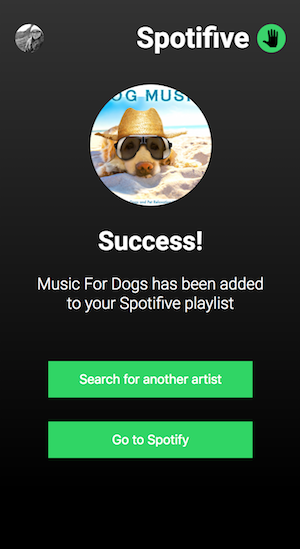
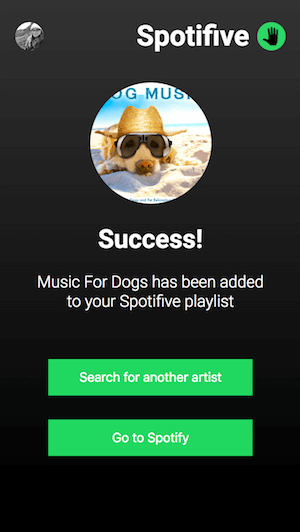
Update readme and crush images

diff --git a/README.md b/README.md
@@ -14,11 +14,18 @@ Search for an artist you want to try, click Try It, and that artist's top 5 song
 
 ### *Example* 
 
+#### Sign in:
 ![Sign In](./src/images/signin.png)
+
+#### Search:
 ![Search](./src/images/search1.png)
 ![Search](./src/images/search2.png)
+
+#### Try it:
 ![Try It](./src/images/tryit.png)
 ![Success](./src/images/success.png)
+
+#### Spotifive on Spotify:
 ![Spotifive on Spotify](./src/images/spotify.png)
 
 ---
